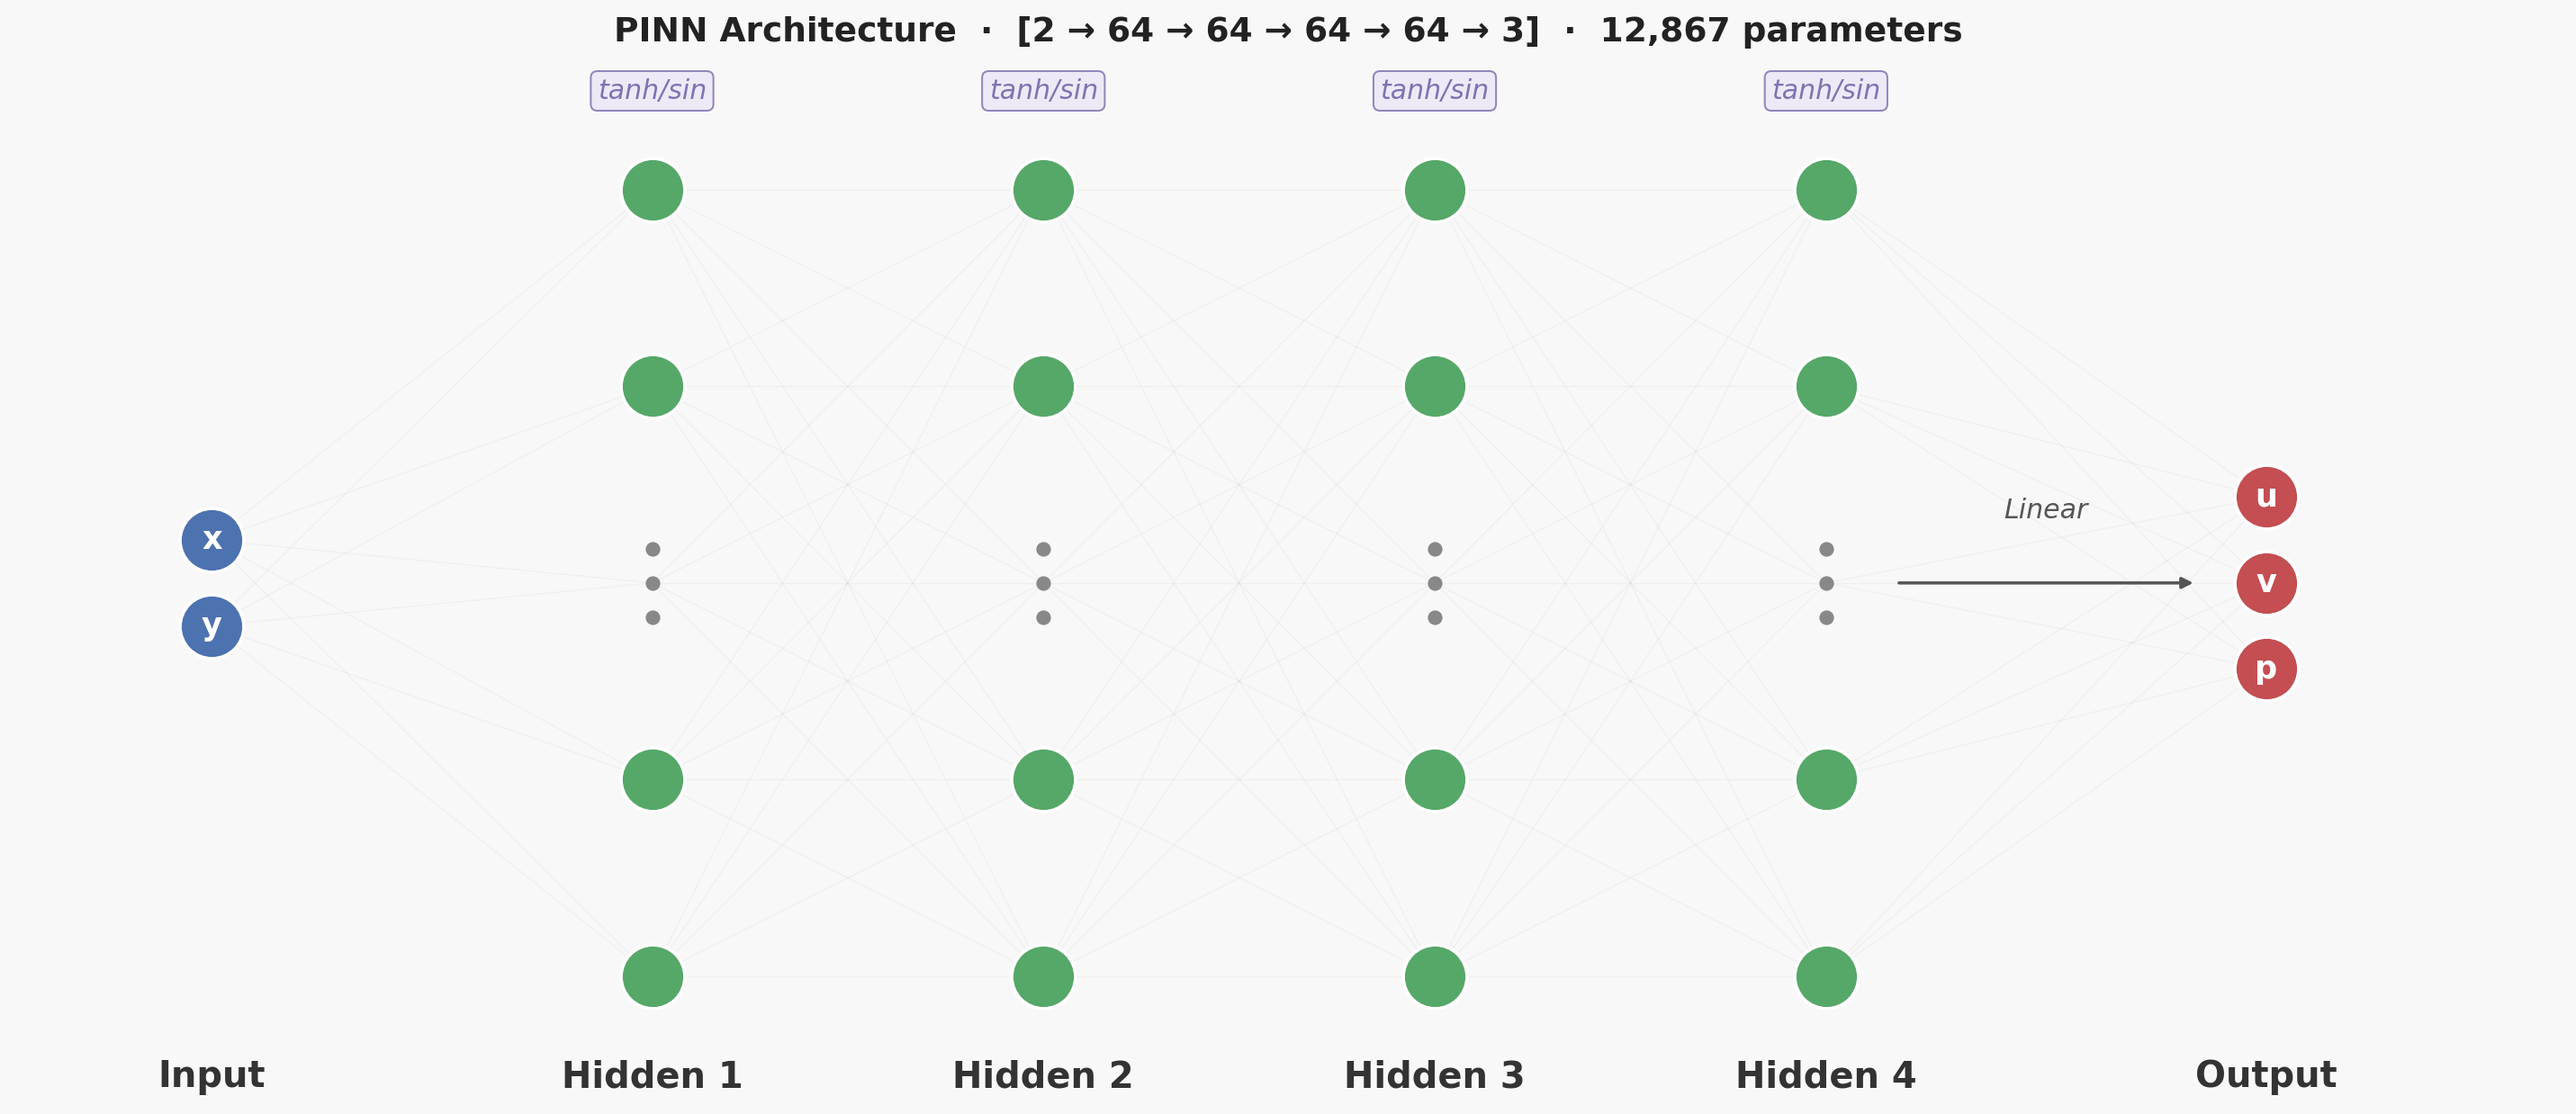
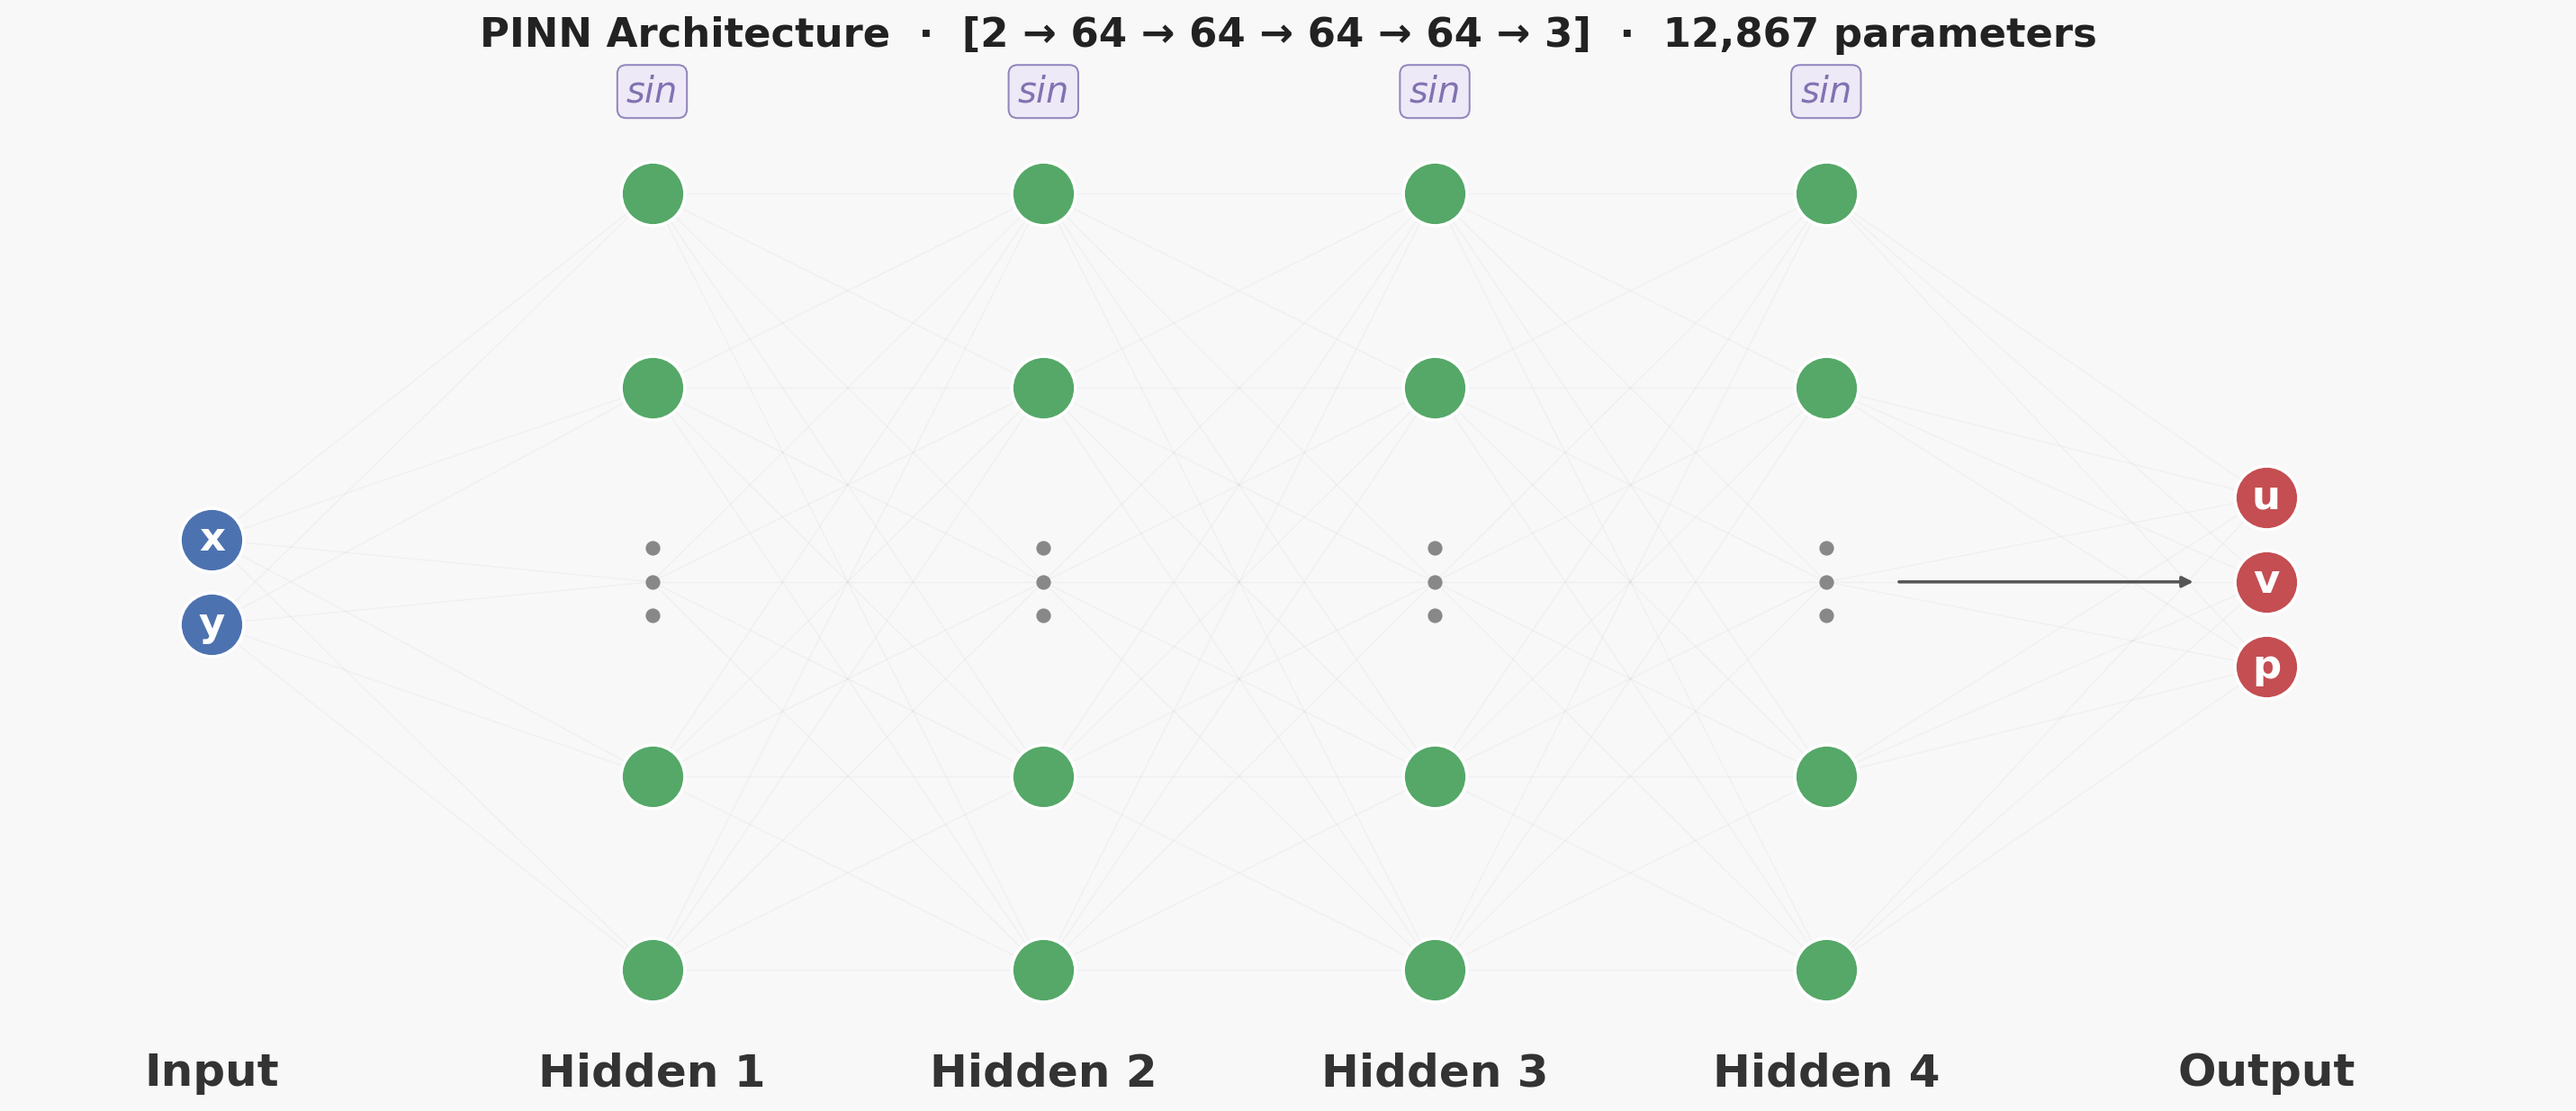
Add L_pde_max to sweep table; clean up arch diagram
- v2 sweep results (w=4–256) with L∞ max residual column
- Remove 'Linear' label and tanh/sin → sin on arch diagram
- Larger fonts, 70% width in README
- Decimal notation in table; \cdot in loss formula

diff --git a/make_arch_diagram.py b/make_arch_diagram.py
@@ -18,7 +18,7 @@ COLORS = {
 }
 
 LAYER_LABELS = ["Input", "Hidden 1", "Hidden 2", "Hidden 3", "Hidden 4", "Output"]
-ACT_LABELS   = [None, "tanh/sin", "tanh/sin", "tanh/sin", "tanh/sin", None]
+ACT_LABELS   = [None, "sin", "sin", "sin", "sin", None]
 
 INPUT_NAMES  = ["y", "x"]   # x on top, y on bottom (ys goes bottom→top)
 OUTPUT_NAMES = ["p", "v", "u"]  # u on top, p on bottom
@@ -36,7 +36,7 @@ def draw_neurons(ax, lx, ys, color, labels=None, size=800):
                    edgecolors="white", linewidths=1.4)
         if labels:
             ax.text(lx, y, labels[i], ha="center", va="center",
-                    fontsize=14, color="white", fontweight="bold", zorder=6)
+                    fontsize=18, color="white", fontweight="bold", zorder=6)
 
 
 def draw_dots(ax, lx, y_center):
@@ -94,7 +94,7 @@ def main():
 
     # ── Layer labels (below) ──────────────────────────────────────────────────
     for li, (lx, lbl) in enumerate(zip(LAYER_X, LAYER_LABELS)):
-        ax.text(lx, 0.45, lbl, ha="center", va="top", fontsize=16,
+        ax.text(lx, 0.45, lbl, ha="center", va="top", fontsize=20,
                 color="#333333", fontweight="bold")
 
     # ── Activation labels (above, between layers) ─────────────────────────────
@@ -102,7 +102,7 @@ def main():
         mid_x = LAYER_X[li]
         y_top = all_ys[li][-1] + 0.55
         ax.text(mid_x, y_top, ACT_LABELS[li], ha="center", va="bottom",
-                fontsize=12, color=COLORS["tanh"], style="italic",
+                fontsize=16, color=COLORS["tanh"], style="italic",
                 bbox=dict(boxstyle="round,pad=0.25", fc="#EDE7F6", ec=COLORS["tanh"],
                           alpha=0.85, lw=0.8))
 
@@ -110,14 +110,11 @@ def main():
     ax.annotate("", xy=(LAYER_X[-1] - 0.28, FIG_H / 2),
                 xytext=(LAYER_X[-2] + 0.28, FIG_H / 2),
                 arrowprops=dict(arrowstyle="-|>", color="#555555", lw=1.4))
-    ax.text((LAYER_X[-2] + LAYER_X[-1]) / 2, FIG_H / 2 + 0.38,
-            "Linear", ha="center", va="bottom", fontsize=12,
-            color="#555555", style="italic")
 
     # ── Title ─────────────────────────────────────────────────────────────────
     ax.set_title(
         "PINN Architecture  ·  [2 → 64 → 64 → 64 → 64 → 3]  ·  12,867 parameters",
-        fontsize=15, fontweight="bold", pad=12, color="#222222"
+        fontsize=18, fontweight="bold", pad=12, color="#222222"
     )
 
     plt.tight_layout()

diff --git a/README.md b/README.md
@@ -10,7 +10,10 @@ A neural network trained to solve a fluid flow problem by satisfying the governi
 <p align="center">
   <img src="videos/flow_Re100_uniformU_1xhidden.gif"/>
 </p>
-<p align="center"><em>Training animation — sin network, W=64, 12,867 parameters, Re=100, uniform lid, 36,000 epochs. Left: vorticity field + velocity vectors. Center: pressure field + −∇p vectors. Right: streamfunction isolines.</em></p>
+<p align="center"><em>Training animation — sin network, W=64, 12,867 parameters, Re=100, uniform lid, 36,000 epochs. 
+Left: vorticity field + velocity vectors. 
+Center: pressure field + −∇p vectors.
+Right: streamfunction isolines.</em></p>
 
 ---
 
@@ -83,7 +86,7 @@ So `x_f.grad` is populated after `.backward()` but never used by the optimizer. 
 Default: `[2, 64, 64, 64, 64, 3]` — 12,867 parameters. ReLU cannot be used because the NS residual requires second-order spatial derivatives, which vanish for ReLU. We experiment with tanh and sin activations.
 
 <p align="center">
-  <img src="assets/network_architecture.png" width="820"/>
+  <img src="assets/network_architecture.png" width="574"/>
 </p>
 
 ### Sinusoidal Activation
@@ -116,24 +119,25 @@ We train 10 networks by doubling the layer widths from 4 to 2048, with both tanh
 <p align="center">
   <img src="assets/error_vs_width.png" width="900"/>
 </p>
-<p align="center"><em>Left: percent velocity error vs width — tanh degrades at w>64; sin peaks at w=1024 (0.23% error). Right: PDE residual loss vs width — sin's L_PDE worsens after w=128, likely due to insufficient N_f=10,000 collocation points for larger models.</em></p>
+<p align="center"><em>Left: percent velocity error vs width — tanh degrades at w>64; sin peaks at w=1024 (0.23% error). 
+Right: PDE residual loss vs width — sin's L_PDE worsens after w=128, likely due to insufficient N_f=10,000 collocation points for larger models.</em></p>
 
 Error decreases slowly past w=32 because N_f is held fixed at 10,000 while model size grows ~4× per step; by Chinchilla scaling, $N_f \propto N_\text{params}$, so the collocation budget should grow proportionally with the model.
 
 #### sin network sweep
 
-| Width | Model size | N_f | Epochs | Train time | eval_L_pde | u_ghia | \|Δu\| |
-|------:|-----------:|----:|-------:|-----------:|-----------:|-------:|------:|
-| 4 | 87 | 10,000 | 25,500 | 6 min | 2.129e-02 | 0.6125 | 0.1247 |
-| 8 | 267 | 10,000 | 35,500 | 11 min | 1.494e-02 | 0.6700 | 0.0672 |
-| 16 | 915 | 10,000 | 49,500 | 16 min | 4.558e-03 | 0.7287 | 0.0086 |
-| 32 | 3.4K | 10,000 | 49,000 | 15 min | 2.215e-03 | 0.7419 | 0.0047 |
-| 64 | 12.9K | 10,000 | 45,000 | 17 min | 1.378e-03 | 0.7404 | 0.0032 |
-| 128 | 50.3K | 10,000 | 42,500 | 29 min | 8.423e-04 | 0.7400 | 0.0027 |
-| 256 | 199K | 10,000 | 38,500 | 57 min | 1.962e-03 | 0.7416 | 0.0044 |
-| 512 | 791K | 10,000 | 43,000 | 2.5 h | 1.456e-03 | 0.7393 | 0.0021 |
-| 1024 | 3.2M | 10,000 | 39,000 | 6.2 h | 1.914e-03 | 0.7389 | 0.0017 |
-| 2048 | 12.6M | 10,000 | 43,000 | 23.8 h | 3.548e-03 | 0.7521 | 0.0148 |
+| Width | Model size | N_f | Epochs | Train time | eval_L_pde | L_pde_max | u_ghia | \|Δu\| |
+|------:|-----------:|----:|-------:|-----------:|-----------:|----------:|-------:|------:|
+| 4 | 87 | 10,000 | 23,000 | 6 min | 0.0260 | 0.680 | 0.6149 | 0.1223 |
+| 8 | 267 | 10,000 | 26,000 | 8 min | 0.0173 | 1.080 | 0.6573 | 0.0799 |
+| 16 | 915 | 10,000 | 45,000 | 14 min | 0.00573 | 0.619 | 0.7326 | 0.0046 |
+| 32 | 3.4K | 10,000 | 47,500 | 15 min | 0.00152 | 0.584 | 0.7343 | 0.0029 |
+| 64 | 12.9K | 10,000 | 34,000 | 13 min | 0.00290 | 0.920 | 0.7349 | 0.0023 |
+| 128 | 50.3K | 10,000 | 39,000 | 27 min | 0.00296 | 0.879 | 0.7409 | 0.0037 |
+| 256 | 199K | 10,000 | 46,000 | 77 min | 0.000703 | 0.305 | 0.7396 | 0.0024 |
+| 512 | 791K | 10,000 | 43,000 | 2.5 h | 0.00146 | — | 0.7393 | 0.0021 |
+| 1024 | 3.2M | 10,000 | 39,000 | 6.2 h | 0.00191 | — | 0.7389 | 0.0017 |
+| 2048 | 12.6M | 10,000 | 43,000 | 23.8 h | 0.00355 | — | 0.7521 | 0.0148 |
 
 All runs on Apple Silicon GPU (MPS). `u_ghia` is the predicted u-velocity at `(x=0.5, y=0.9609)`, compared against the Ghia et al. (1982) reference value of 0.73722 at Re=100.
 
